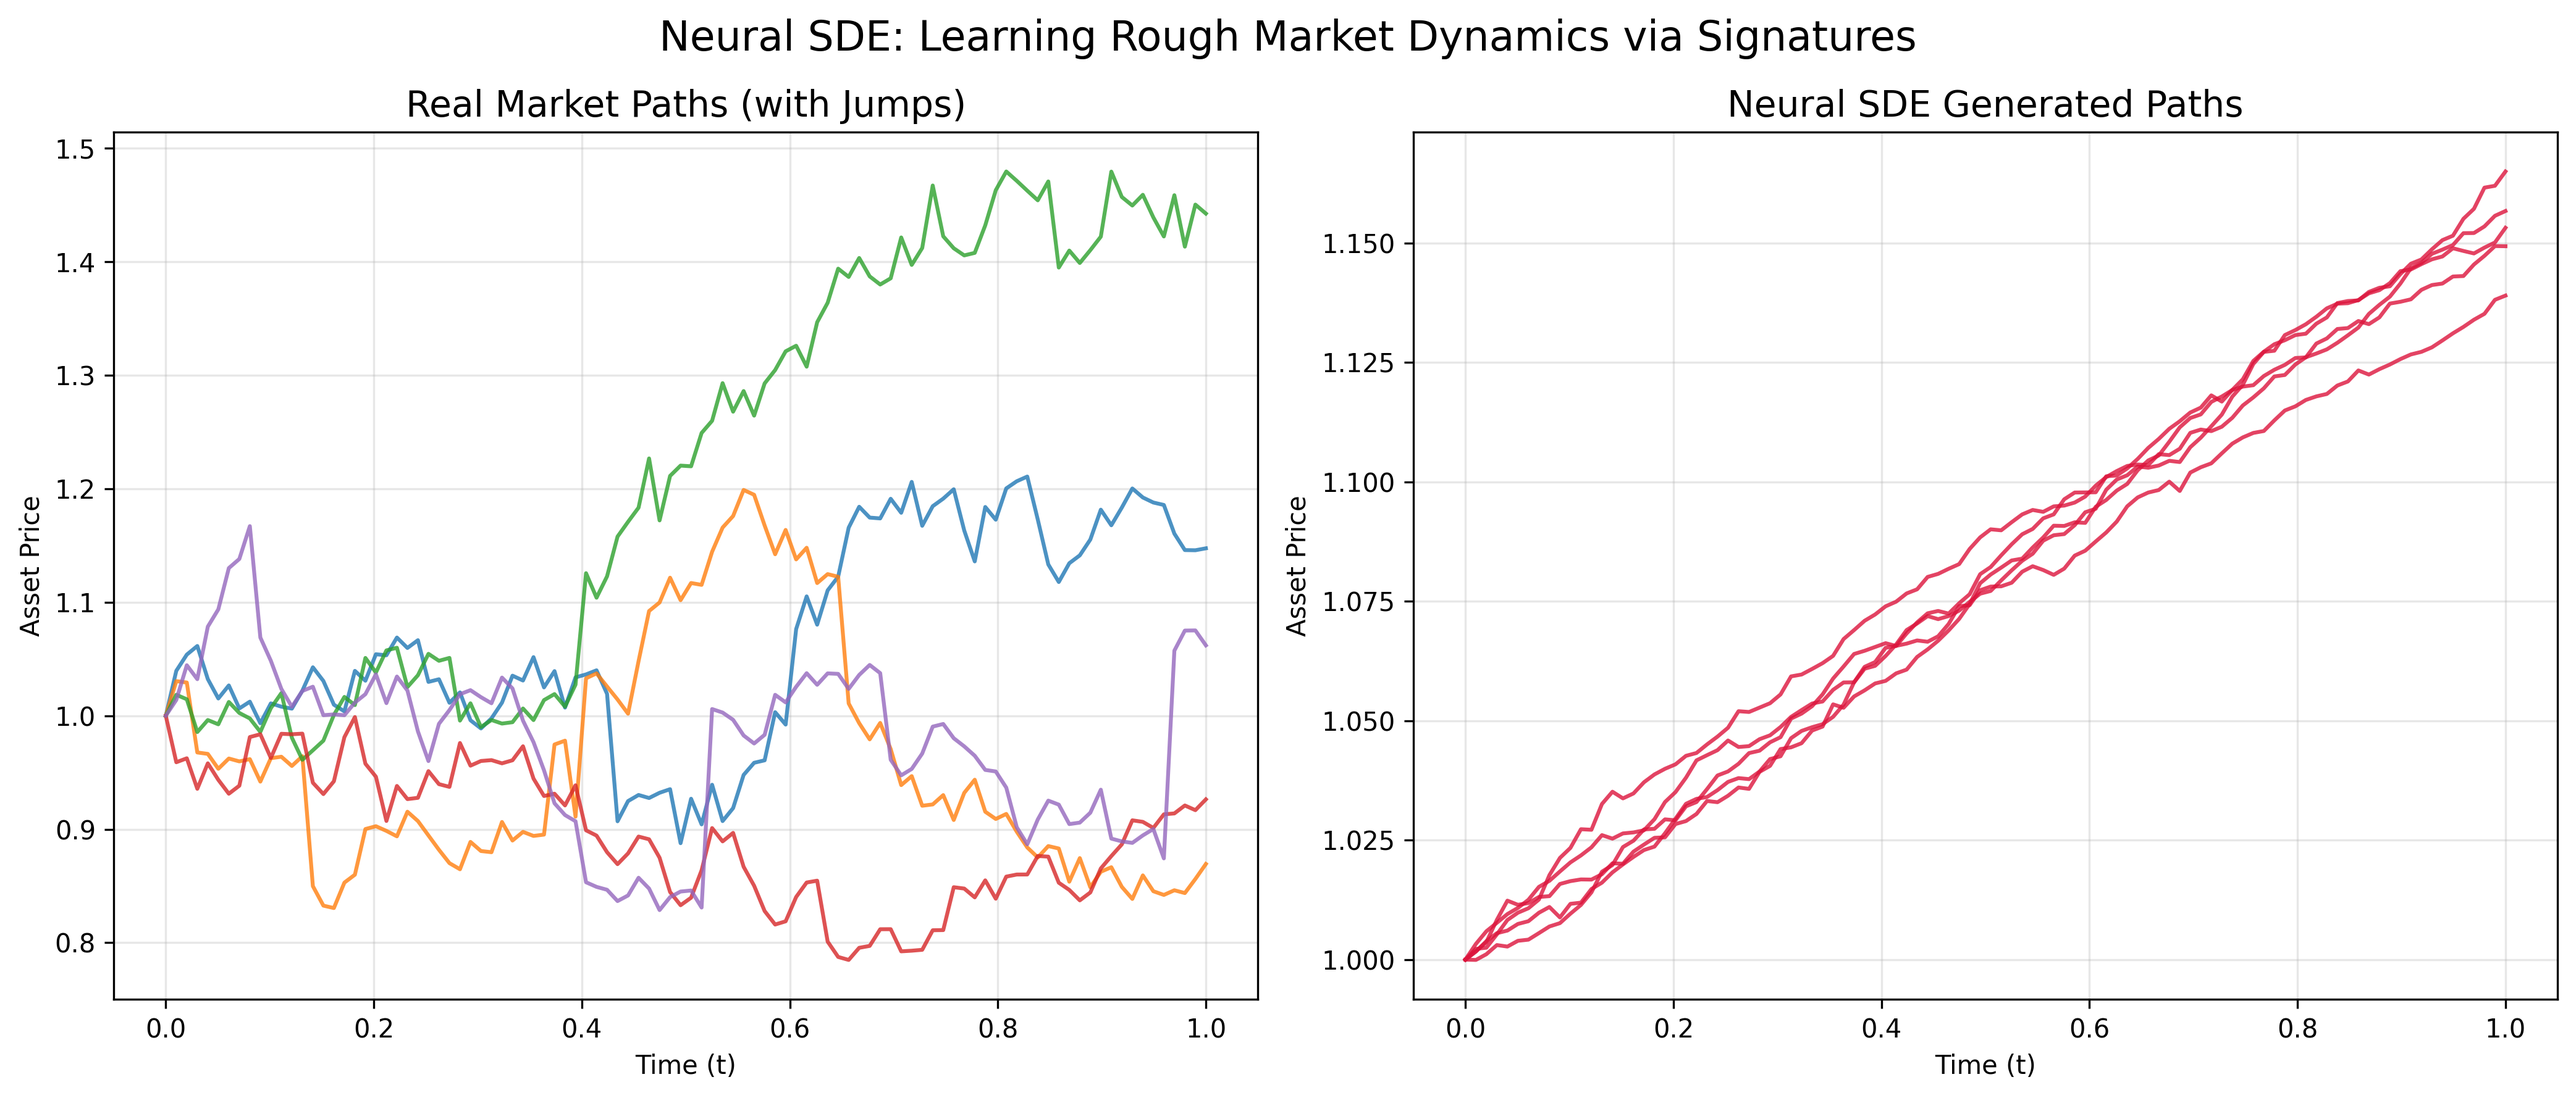
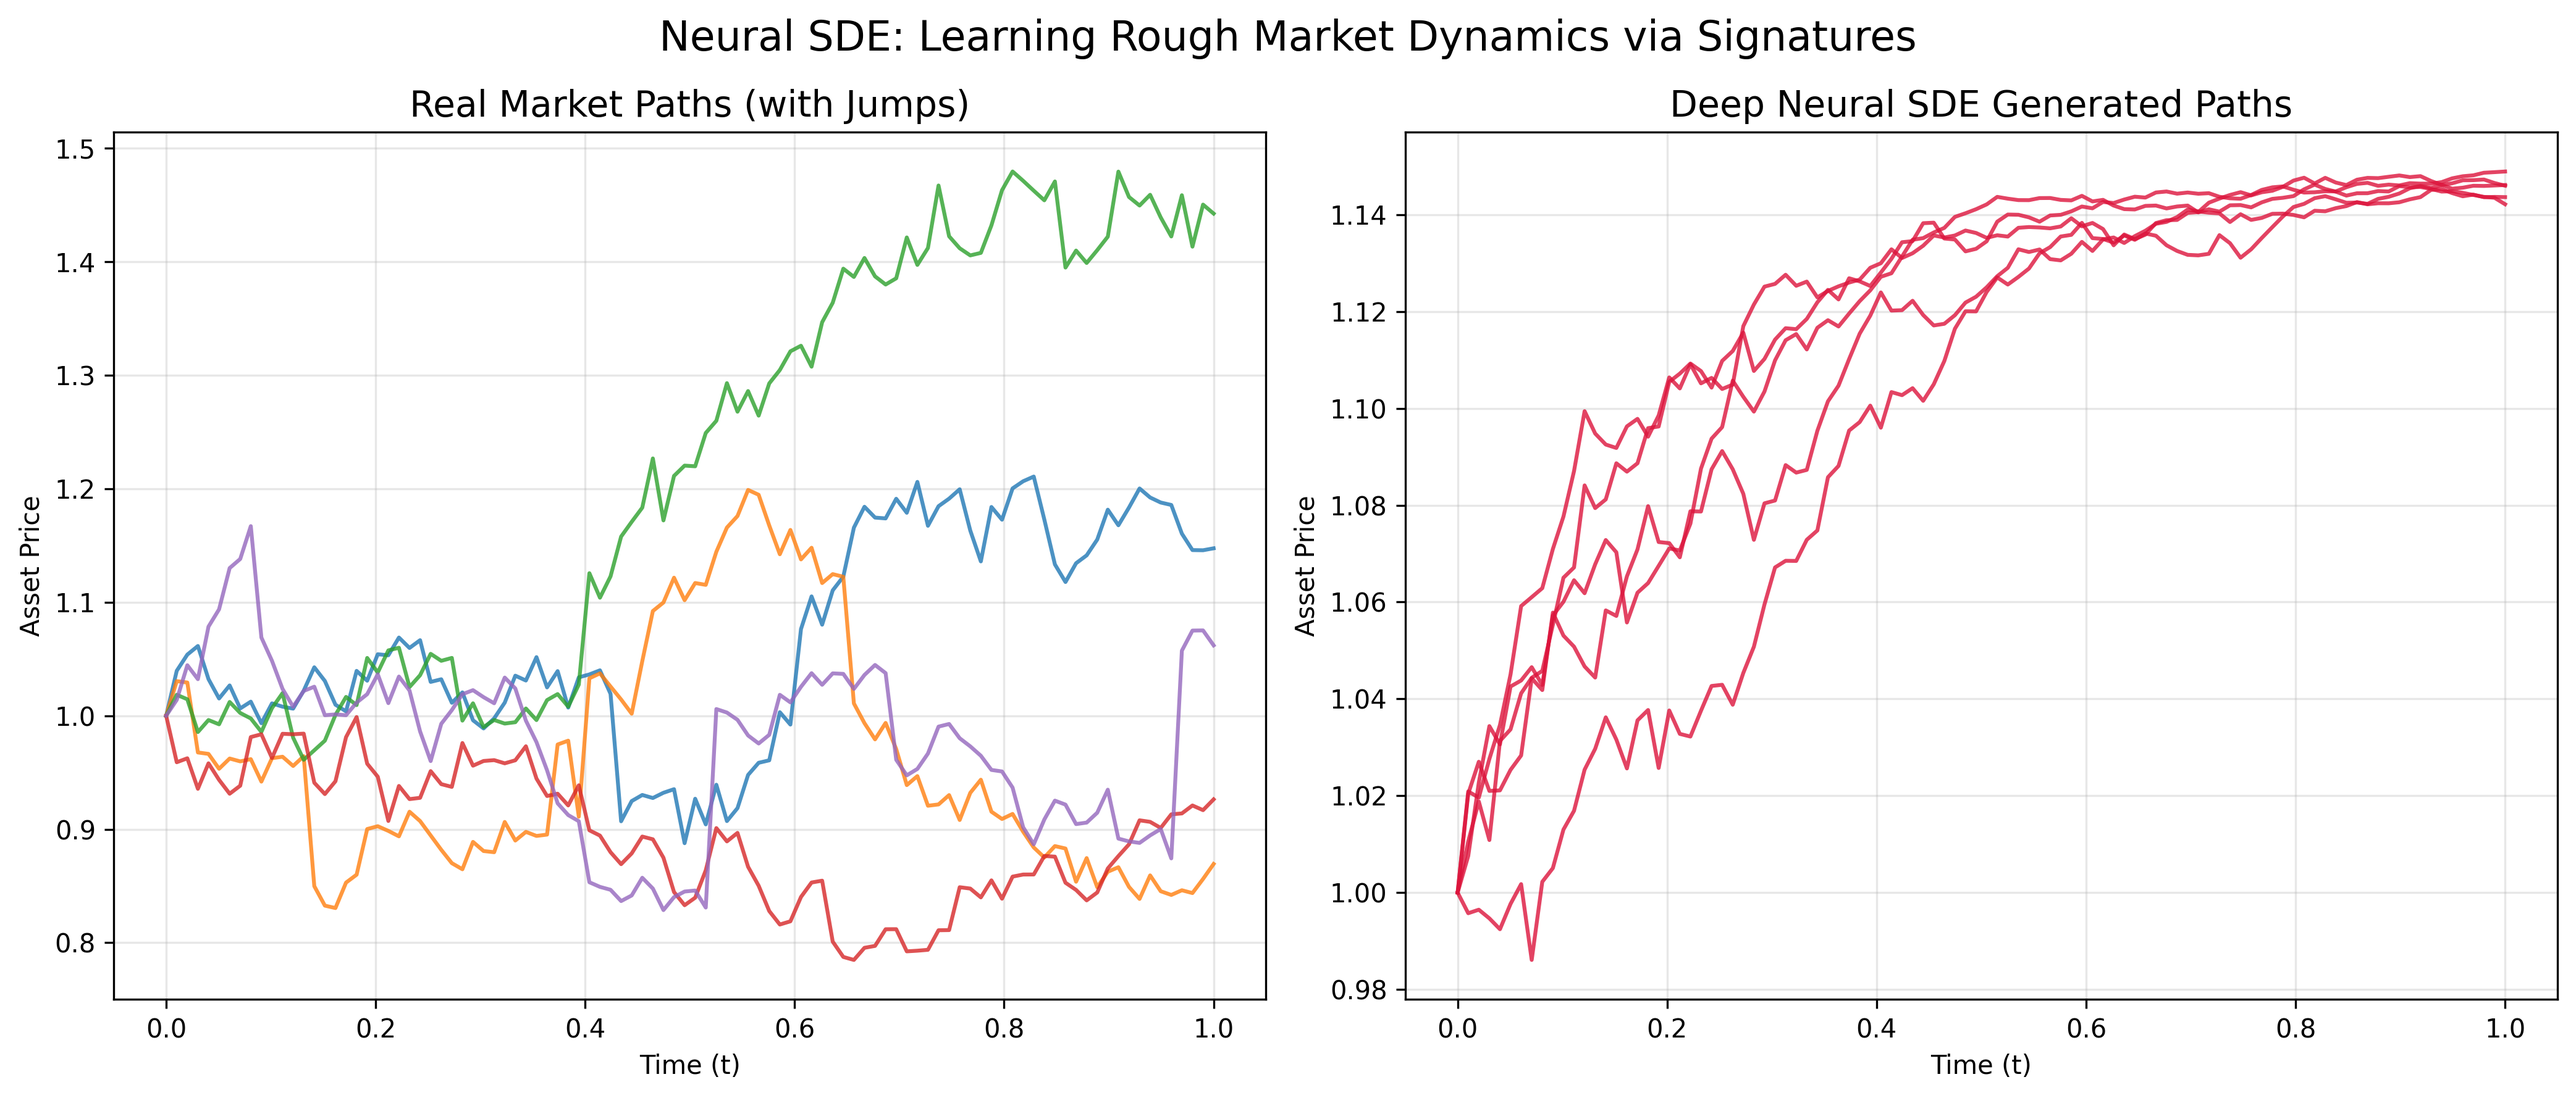
Update requirements and add sync_public.py script

diff --git a/sync_public.py b/sync_public.py
@@ -1,0 +1,130 @@
+import os
+import shutil
+import sys
+import subprocess
+from pathlib import Path
+
+# Config
+DEFAULT_TARGET_NAME = "SCIML_QF_Public"
+
+def sync():
+    # Source is directory of this script
+    source_dir = Path(__file__).resolve().parent
+    
+    # Target is default sibling directory
+    target_dir = source_dir.parent / DEFAULT_TARGET_NAME
+    
+    print(f"=== SCIML QF Public Repo Sync ===")
+    print(f"Source: {source_dir}")
+    print(f"Target: {target_dir}")
+    
+    # 1. Ensure target directory exists and is initialized with git
+    if not target_dir.exists():
+        print(f"\nTarget directory '{target_dir}' does not exist.")
+        choice = input("Do you want to create it? [y/N]: ").strip().lower()
+        if choice == 'y':
+            target_dir.mkdir(parents=True, exist_ok=True)
+        else:
+            print("Sync cancelled.")
+            return
+            
+    git_dir = target_dir / ".git"
+    if not git_dir.exists():
+        print(f"\nInitializing git repository in '{target_dir}'...")
+        subprocess.run(["git", "init"], cwd=str(target_dir), check=True)
+        # Create a basic .gitignore for the public repo to ignore OS files, etc.
+        gitignore_path = target_dir / ".gitignore"
+        if not gitignore_path.exists():
+            with open(gitignore_path, "w", encoding="utf-8") as f:
+                f.write("__pycache__/\n*.pyc\n.DS_Store\nThumbs.db\n.venv/\nenv/\n")
+            print("Created a default .gitignore in the target repository.")
+
+    # 2. Identify modules to copy (folders starting with 00, 01, etc.)
+    modules = sorted([
+        d for d in source_dir.iterdir()
+        if d.is_dir() and d.name[0:2].isdigit()
+    ])
+    
+    print(f"\nFound {len(modules)} module folders in source.")
+    
+    # 3. Clean and Copy code directories
+    for module in modules:
+        source_code_dir = module / "code"
+        target_module_dir = target_dir / module.name
+        target_code_dir = target_module_dir / "code"
+        
+        # Clean existing code folder in target to prevent stale files
+        if target_code_dir.exists():
+            shutil.rmtree(target_code_dir)
+            
+        if source_code_dir.exists() and source_code_dir.is_dir():
+            print(f"  -> Copying {module.name}/code ...")
+            target_code_dir.mkdir(parents=True, exist_ok=True)
+            # Copy all files from source code to target code
+            for item in source_code_dir.iterdir():
+                if item.is_dir():
+                    shutil.copytree(item, target_code_dir / item.name)
+                else:
+                    shutil.copy2(item, target_code_dir / item.name)
+        else:
+            # If no code dir, make sure we clean up target module dir if empty
+            if target_module_dir.exists() and not any(target_module_dir.iterdir()):
+                target_module_dir.rmdir()
+                
+    # 4. Copy shared root files
+    root_files_to_copy = ["requirements.txt", "readme.md", "README.md", "LICENSE"]
+    for filename in root_files_to_copy:
+        src_file = source_dir / filename
+        if src_file.exists():
+            print(f"  -> Copying {filename} ...")
+            shutil.copy2(src_file, target_dir / filename)
+            
+    # 5. Git Status & Commit in target
+    print("\nChecking git status in public repository...")
+    status_proc = subprocess.run(["git", "status", "--short"], cwd=str(target_dir), capture_output=True, text=True)
+    if not status_proc.stdout.strip():
+        print("No changes detected. Public repository is already up to date!")
+        return
+        
+    print("\nChanges detected in target repository:")
+    print(status_proc.stdout)
+    
+    commit_choice = input("Do you want to stage and commit these changes? [y/N]: ").strip().lower()
+    if commit_choice == 'y':
+        commit_msg = input("Enter commit message (press Enter for default: 'Sync code from private repo'): ").strip()
+        if not commit_msg:
+            commit_msg = "Sync code from private repo"
+            
+        subprocess.run(["git", "add", "."], cwd=str(target_dir), check=True)
+        subprocess.run(["git", "commit", "-m", commit_msg], cwd=str(target_dir), check=True)
+        print("Changes committed successfully.")
+        
+        push_choice = input("Do you want to push to remote? [y/N]: ").strip().lower()
+        if push_choice == 'y':
+            # Check if remote exists
+            remotes_proc = subprocess.run(["git", "remote"], cwd=str(target_dir), capture_output=True, text=True)
+            if not remotes_proc.stdout.strip():
+                print("No remote configured for the public repository yet.")
+                remote_url = input("Enter remote repository URL (or press Enter to skip): ").strip()
+                if remote_url:
+                    subprocess.run(["git", "remote", "add", "origin", remote_url], cwd=str(target_dir), check=True)
+                    print(f"Remote 'origin' added: {remote_url}")
+                    branch_proc = subprocess.run(["git", "branch", "--show-current"], cwd=str(target_dir), capture_output=True, text=True)
+                    current_branch = branch_proc.stdout.strip() or "main"
+                    if current_branch == "master":
+                        subprocess.run(["git", "branch", "-M", "main"], cwd=str(target_dir), check=True)
+                        current_branch = "main"
+                    subprocess.run(["git", "push", "-u", "origin", current_branch], cwd=str(target_dir), check=True)
+            else:
+                branch_proc = subprocess.run(["git", "branch", "--show-current"], cwd=str(target_dir), capture_output=True, text=True)
+                current_branch = branch_proc.stdout.strip() or "main"
+                subprocess.run(["git", "push", "origin", current_branch], cwd=str(target_dir), check=True)
+    else:
+        print("Changes not committed.")
+
+if __name__ == "__main__":
+    try:
+        sync()
+    except Exception as e:
+        print(f"\nError occurred: {e}", file=sys.stderr)
+        sys.exit(1)

diff --git a/04_neural_sde/manim/scenes.py b/04_neural_sde/manim/scenes.py
@@ -5,6 +5,7 @@ import os
 import json
 from pathlib import Path
 from manim_voiceover import VoiceoverScene
+from manim_ml.neural_network import NeuralNetwork, FeedForwardLayer
 
 # Add the project root to sys.path
 root_dir = Path(__file__).resolve().parents[2]
@@ -140,18 +141,24 @@ class Act3_NeuralSDE(SciMLScene):
             font_size=60
         )
         
-        # Neural Network Diagrams to replace mu and sigma
-        def build_nn_icon(color):
-            nodes = VGroup(
-                Circle(radius=0.1, color=color, fill_opacity=1),
-                Circle(radius=0.1, color=color, fill_opacity=1)
-            ).arrange(DOWN, buff=0.2)
-            box = SurroundingRectangle(nodes, color=WHITE, corner_radius=0.1, buff=0.15)
-            label = Text("NN", font_size=16).next_to(box, UP, buff=0.1)
-            return VGroup(box, nodes, label)
+        # Neural Network Diagrams using manim-ml
+        nn_mu = Group(
+            NeuralNetwork([
+                FeedForwardLayer(num_nodes=1, node_color=GREEN),
+                FeedForwardLayer(num_nodes=5, node_color=GREEN),
+                FeedForwardLayer(num_nodes=5, node_color=GREEN),
+                FeedForwardLayer(num_nodes=1, node_color=GREEN)
+            ], layer_spacing=0.2)
+        ).scale(0.22).move_to(eq_classic[2].get_center())
 
-        nn_mu = build_nn_icon(GREEN).move_to(eq_classic[2].get_center())
-        nn_sigma = build_nn_icon(ORANGE).move_to(eq_classic[5].get_center())
+        nn_sigma = Group(
+            NeuralNetwork([
+                FeedForwardLayer(num_nodes=1, node_color=ORANGE),
+                FeedForwardLayer(num_nodes=5, node_color=ORANGE),
+                FeedForwardLayer(num_nodes=5, node_color=ORANGE),
+                FeedForwardLayer(num_nodes=1, node_color=ORANGE)
+            ], layer_spacing=0.2)
+        ).scale(0.22).move_to(eq_classic[5].get_center())
 
         with self.voiceover(text=self.scene_config["voiceover"], path=self.voiceover_path) as tracker:
             d = tracker.duration
@@ -163,14 +170,8 @@ class Act3_NeuralSDE(SciMLScene):
             
             # Physically swap the algebraic terms for NN diagrams
             self.play(
-                ReplacementTransform(eq_classic[2], nn_mu),
-                ReplacementTransform(eq_classic[5], nn_sigma),
-                # Shift spacing to accommodate the graphics
-                eq_classic[0:2].animate.shift(LEFT * 0.5),
-                eq_classic[3].animate.shift(RIGHT * 0.5),
-                eq_classic[4].animate.shift(RIGHT * 0.5),
-                nn_sigma.animate.shift(RIGHT * 0.5),
-                eq_classic[6].animate.shift(RIGHT * 1.5),
+                FadeTransform(eq_classic[2], nn_mu),
+                FadeTransform(eq_classic[5], nn_sigma),
                 run_time=d * 0.4
             )
             self.wait(d * 0.2)
@@ -239,12 +240,31 @@ class CodeWalkthroughScene(SciMLScene):
         
         # Read the config values or use fallbacks
         code_file = self.scene_config.get("code_file", "code/neural_sde_model.py")
-        default_highlights = [
-            {"lines": [22, 24]},
-            {"lines": [30, 36]},
-            {"lines": [41, 44]}
-        ]
+        
+        # Resolve to the correct file path and default highlights
+        if "neural_sde_model.py" in code_file or "04_neural_sde.py" in code_file:
+            code_file = "code/04_neural_sde.py"
+            default_highlights = [
+                {"lines": [34, 36]}, # Signatory path signature
+                {"lines": [41, 71]}, # LatentNeuralSDE definition
+                {"lines": [86, 95]}  # Training loop & Signature loss
+            ]
+        else:
+            default_highlights = [
+                {"lines": [34, 36]},
+                {"lines": [41, 71]},
+                {"lines": [86, 95]}
+            ]
+            
         highlights = self.scene_config.get("highlights", default_highlights)
+        # If highlights are the outdated ones from old neural_sde_model.py, override them
+        if len(highlights) == 3 and highlights[0].get("lines") == [22, 24]:
+            highlights = [
+                {"lines": [34, 36]},
+                {"lines": [41, 71]},
+                {"lines": [86, 95]}
+            ]
+            
         voiceover_text = self.scene_config.get("voiceover", "Fallback voiceover.")
         
         # Get absolute path to original file
@@ -279,7 +299,7 @@ class CodeWalkthroughScene(SciMLScene):
                 
             snippet_lines = lines[hl_start:hl_end + 1]
             
-            # Sanitize
+            # Sanitize to fix the Manim empty-line Pygments crash bug
             cleaned_lines = []
             for line in snippet_lines:
                 if line.strip() == "":
